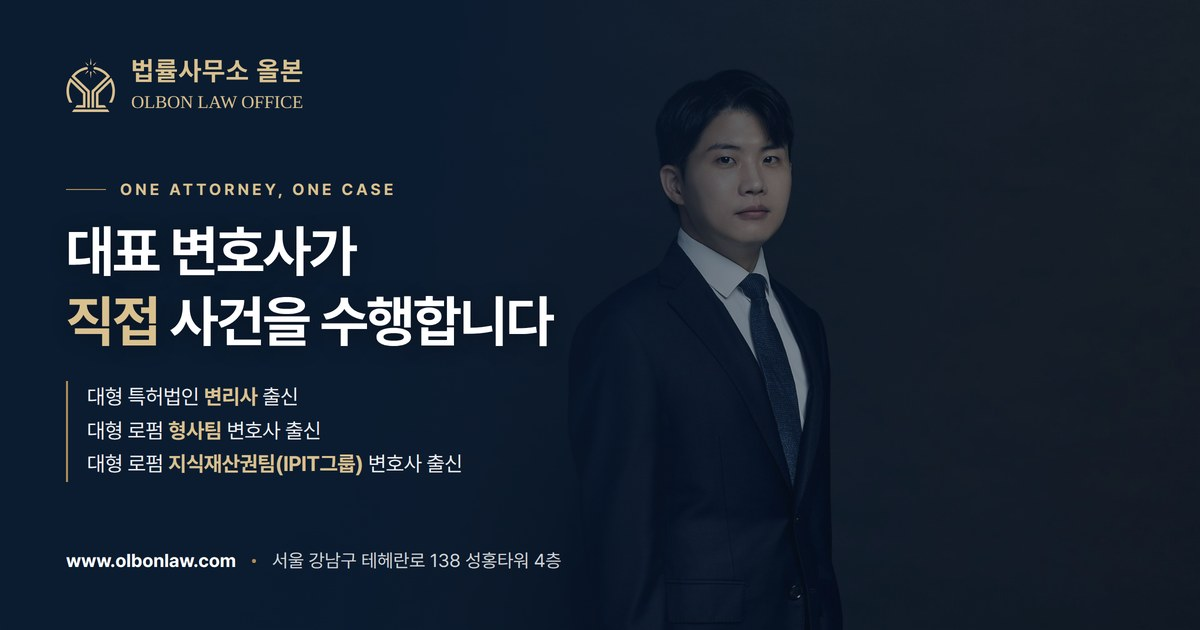
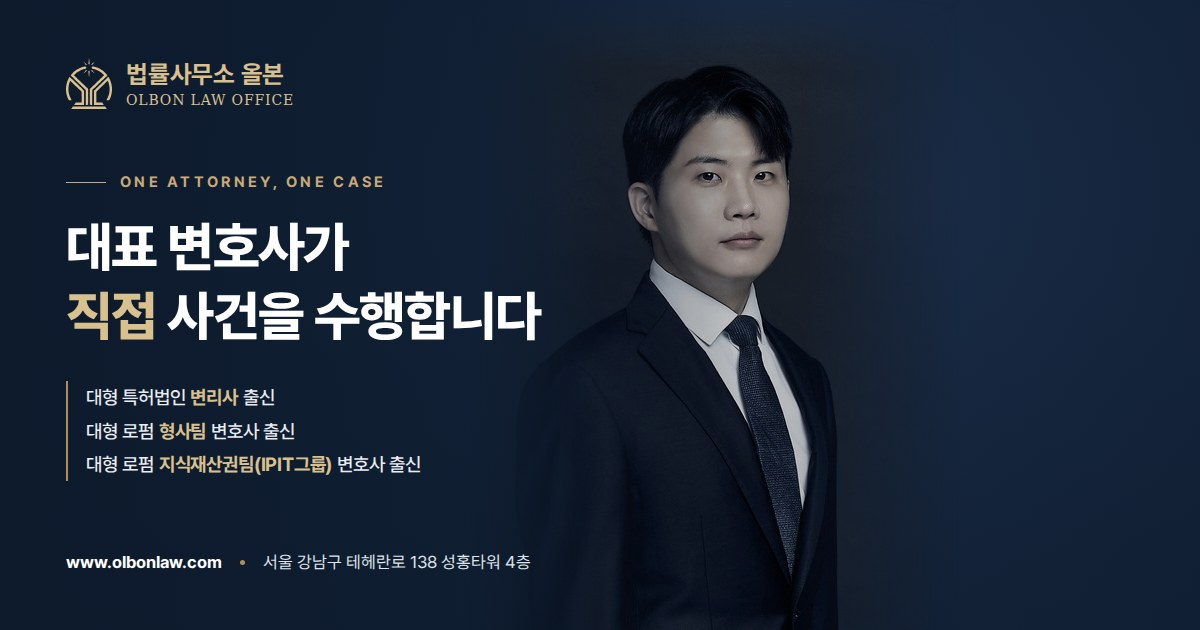
공유 썸네일 새 사진으로 교체, 업무분야 나열 순서 통일
- og-image.jpg를 보정 사진으로 다시 제작 (기존 디자인 유지)
- 사이트 전체 업무분야 나열을 형사·지식재산권·민사·행정·가사 순으로 통일 (메인 설명·공유 설명·인사말·소개·업무사례 필터)

Claude-Session: https://claude.ai/code/session_01So7mU2A5cKV6rsqpwBBG91

diff --git a/index.html b/index.html
@@ -4,7 +4,7 @@
 <meta charset="UTF-8">
 <meta name="viewport" content="width=device-width, initial-scale=1.0">
 <title>법률사무소 올본 - 모든 사건의 본질을 봅니다</title>
-<meta name="description" content="민사·형사·가사·행정 사건을 대표 변호사가 직접 수행합니다. 변리사·변호사 이중 자격으로 지식재산권까지 대응하는 강남 테헤란로 법률사무소.">
+<meta name="description" content="형사·지식재산권·민사·행정·가사 사건을 대표 변호사가 직접 수행합니다. 변리사·변호사 이중 자격을 갖춘 강남 테헤란로 법률사무소.">
 <meta name="keywords" content="강남 변호사, 테헤란로 변호사, 역삼역 변호사, 지식재산권 변호사, 민사소송 변호사, 형사소송 변호사, 가사소송 변호사, 이혼 변호사, 상속 변호사, 행정소송 변호사, 지식재산권 변호사, 변리사 출신 변호사, 특허 변호사, 상표 변호사, 디자인 변호사, 저작권 변호사">
 <meta name="author" content="법률사무소 올본">
 <link rel="canonical" href="https://www.olbonlaw.com/">
@@ -13,7 +13,7 @@
 <meta property="og:type" content="website">
 <meta property="og:site_name" content="법률사무소 올본">
 <meta property="og:title" content="법률사무소 올본 - 모든 사건의 본질을 봅니다">
-<meta property="og:description" content="올바르게 모든 사건의 본질을 봅니다. 민사·형사·가사·행정 전 분야 직접 수행, 변리사 출신으로 지식재산권 분쟁까지 대응합니다.">
+<meta property="og:description" content="모든 사건의 본질을 올바르게 봅니다. 형사·지식재산권·민사·행정·가사 전 분야를 대표 변호사가 직접 수행하며, 변리사·변호사 이중 자격으로 기술 분쟁까지 대응합니다.">
 <meta property="og:url" content="https://www.olbonlaw.com/">
 <meta property="og:image" content="https://www.olbonlaw.com/assets/images/og-image-v2.jpg">
 <meta property="og:image:width" content="1200">
@@ -72,7 +72,7 @@
         "https://www.olbonlaw.com/assets/images/og-image-v2.jpg",
         "https://www.olbonlaw.com/assets/images/attorney.jpg"
       ],
-      "description": "법률사무소 올본은 민사·형사·가사·행정 등 사건 전반을 김재훈 대표변호사가 상담부터 종결까지 직접 수행하는 서울 강남 테헤란로의 법률사무소입니다. 대표변호사는 변리사·변호사 이중 자격과 전기전자공학 배경을 갖추어, 기술이 얽힌 지식재산권 분쟁에도 함께 대응합니다.",
+      "description": "법률사무소 올본은 형사·지식재산권·민사·행정·가사 등 사건 전반을 김재훈 대표변호사가 상담부터 종결까지 직접 수행하는 서울 강남 테헤란로의 법률사무소입니다. 대표변호사는 변리사·변호사 이중 자격과 전기전자공학 배경을 갖추어, 기술이 얽힌 지식재산권 분쟁에도 함께 대응합니다.",
       "slogan": "올바르게, 모든 사건의 본질을 봅니다",
       "email": "jhkim@olbonlaw.com",
       "currenciesAccepted": "KRW",
@@ -137,7 +137,7 @@
       "givenName": "재훈",
       "familyName": "김",
       "jobTitle": ["변호사", "변리사"],
-      "description": "법률사무소 올본 대표변호사. 민사·형사·가사·행정 등 사건 전반을 직접 수행하며, 변리사(제49회, 2012)와 변호사(제9회, 2020) 자격을 함께 보유하고 전기전자공학을 전공하여 기술이 얽힌 분쟁에도 대응합니다.",
+      "description": "법률사무소 올본 대표변호사. 형사·지식재산권·민사·행정·가사 등 사건 전반을 직접 수행하며, 변리사(제49회, 2012)와 변호사(제9회, 2020) 자격을 함께 보유하고 전기전자공학을 전공하여 기술이 얽힌 분쟁에도 대응합니다.",
       "url": "https://www.olbonlaw.com/attorney.html",
       "image": "https://www.olbonlaw.com/assets/images/attorney.jpg",
       "worksFor": { "@id": "https://www.olbonlaw.com/#office" },
@@ -300,7 +300,7 @@
       <div class="sec-head" data-aos="fade-up">
         <p class="sec-eyebrow">Practice Areas</p>
         <h2 class="sec-title" id="practTitle">올본의 <span class="pt">업무분야</span></h2>
-        <p class="sec-desc">민사·형사·가사·행정 전 분야를 수행합니다.<br>여기에, 기술이 얽힌 분쟁에는 변리사 경력이 더해집니다.</p>
+        <p class="sec-desc">형사·지식재산권·민사·행정·가사 전 분야를 수행합니다.<br>기술이 얽힌 분쟁에는 변리사 경력이 더해집니다.</p>
       </div>
 
       <div class="pract__grid">

diff --git a/cases.html b/cases.html
@@ -4,7 +4,7 @@
 <meta charset="UTF-8">
 <meta name="viewport" content="width=device-width, initial-scale=1.0">
 <title>업무사례 | 법률사무소 올본</title>
-<meta name="description" content="김재훈 대표 변호사·변리사가 수행한 지식재산권·형사·민사·행정·가사 업무사례입니다. 사건별 쟁점과 법리, 수행 과정을 정리했습니다.">
+<meta name="description" content="김재훈 대표 변호사·변리사가 수행한 형사·지식재산권·민사·행정·가사 업무사례입니다. 사건별 쟁점과 법리, 수행 과정을 정리했습니다.">
 <meta name="keywords" content="업무사례, 상표권 침해 사례, 특허소송 사례, 지식재산권 소송 사례, 변리사 출신 변호사">
 <link rel="canonical" href="https://www.olbonlaw.com/cases.html">
 <meta property="og:type" content="website">
@@ -64,11 +64,11 @@
       <!-- 분야 필터 -->
       <div class="case-filter" role="group" aria-label="분야별 필터">
         <button type="button" data-case-filter="all" class="is-active" aria-pressed="true">전체</button>
-        <button type="button" data-case-filter="civil" aria-pressed="false">민사</button>
         <button type="button" data-case-filter="criminal" aria-pressed="false">형사</button>
-        <button type="button" data-case-filter="family" aria-pressed="false">가사</button>
-        <button type="button" data-case-filter="admin" aria-pressed="false">행정</button>
         <button type="button" data-case-filter="ip" aria-pressed="false">지식재산권</button>
+        <button type="button" data-case-filter="civil" aria-pressed="false">민사</button>
+        <button type="button" data-case-filter="admin" aria-pressed="false">행정</button>
+        <button type="button" data-case-filter="family" aria-pressed="false">가사</button>
       </div>
 
       <div class="case-grid" data-case-list>

diff --git a/about.html b/about.html
@@ -90,7 +90,7 @@
               상담한 변호사와 서면을 쓰는 변호사, 법정에 서는 변호사가 같습니다.
               의뢰인께서 같은 이야기를 두 번 설명하실 필요가 없고, 사건의 맥락이 중간에 끊기지 않습니다.</p>
 
-            <p>개인과 기업 간의 권리 분쟁은 물론, 민사·형사·가사·행정 사건까지
+            <p>개인과 기업 간의 권리 분쟁은 물론, 형사·민사·행정·가사 사건까지
               <b>사건의 본질을 명확하게 파악하고 나아갈 방향을 제시</b>합니다.
               가능성과 위험을 있는 그대로 말씀드리고, 최선의 방법을 안내해 드리겠습니다.</p>
           </div>
@@ -118,7 +118,7 @@
           <div><dt>이메일</dt><dd><a href="mailto:jhkim@olbonlaw.com">jhkim@olbonlaw.com</a></dd></div>
           <div><dt>사업자등록번호</dt><dd>[사업자등록번호]</dd></div>
           <div><dt>업무시간</dt><dd>평일 09:00 ~ 18:00 (점심 12:00~13:00) / 주말·공휴일 휴무</dd></div>
-          <div><dt>업무분야</dt><dd>지식재산권(특허·상표·디자인·저작권), 민사, 형사, 가사, 행정</dd></div>
+          <div><dt>업무분야</dt><dd>형사, 지식재산권(특허·상표·디자인·저작권), 민사, 행정, 가사</dd></div>
         </dl>
       </section>
 

diff --git a/attorney.html b/attorney.html
@@ -97,7 +97,7 @@
 
           <div class="profile__contact">
             <span><b>이메일</b> <a href="mailto:jhkim@olbonlaw.com">jhkim@olbonlaw.com</a></span>
-            <span><b>업무분야</b> 지식재산권 · 민사 · 형사 · 가사 · 행정</span>
+            <span><b>업무분야</b> 형사 · 지식재산권 · 민사 · 행정 · 가사</span>
           </div>
 
           <div class="intro__btns" style="margin-top:26px">
